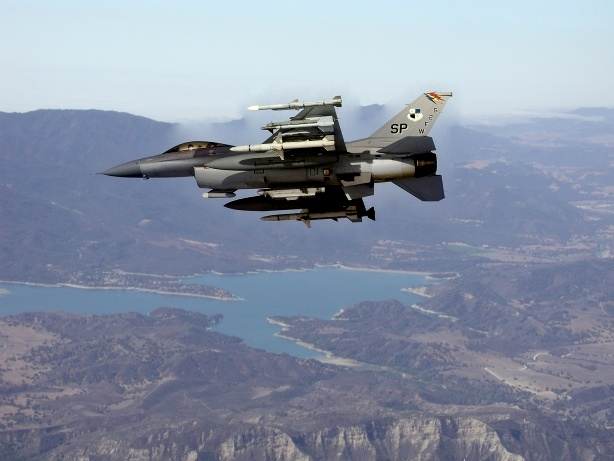
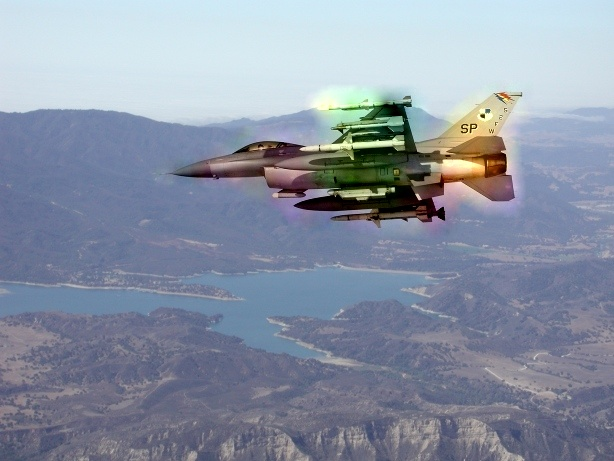
version2

Changed region(s): [[0.1547, 0.1822, 0.8664, 0.5163]]

diff --git a/src/Poisson.py b/src/Poisson.py
@@ -1,7 +1,7 @@
 '''
 Author: Yihan Liu
 Date: 2022-10-01 21:03:29
-LastEditTime: 2022-10-03 00:03:04
+LastEditTime: 2022-10-03 00:41:05
 Email: 117010177@link.cuhk.edu.cn
 '''
 import numpy as np
@@ -30,10 +30,13 @@ def find_min(a):
         if i < buf:
             buf = i
     return buf
-def calculate_lapla(index,src):
+def calculate_lapla(index,src,tar,off):
     i,j = index
-    lapla = (4 * src[i][j]) - src[i+1][j] - src[i-1][j] - src[i][j+1] - src[i][j-1]
-    return lapla
+    i2,j2 = i + off[0], j+off[1]
+    lapla1 = (4 * src[i][j]) - src[i+1][j] - src[i-1][j] - src[i][j+1] - src[i][j-1]
+    lapla2 = (4 * tar[i2][j2]) - tar[i2+1][j2] - tar[i2-1][j2] - tar[i2][j2+1] - tar[i2][j2-1]
+    # if abs(lapla2) > abs(lapla1): return lapla2
+    return (lapla1+lapla2)/2
 def Poisson(src,mask,target,place_to_put):
     omega_src = np.nonzero(mask)
     top_left = [omega_src[0][0],find_min(omega_src[1])]
@@ -51,7 +54,7 @@ def Poisson(src,mask,target,place_to_put):
         target_channel = target[:,:,i]
         Lapla_g = np.zeros(pix_in_omega)
         for j,index in enumerate(a):
-            Lapla_g[j] = calculate_lapla(index,src_channel)
+            Lapla_g[j] = calculate_lapla(index,src_channel,target_channel,offset)
             for n in get_neighbor(index):
                 if mask[n] == 0:
                     x,y = n
